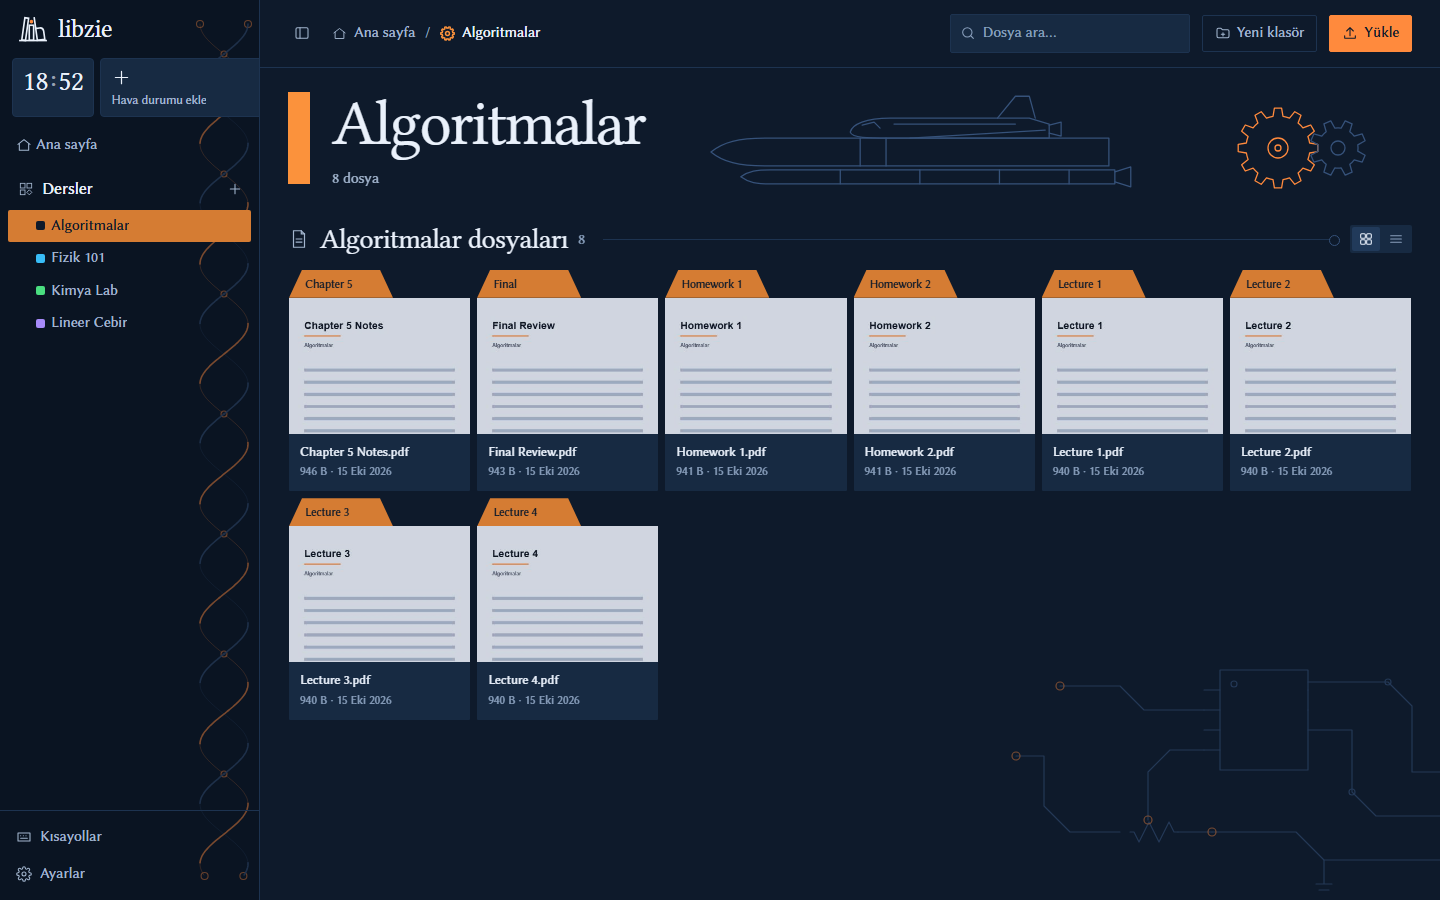
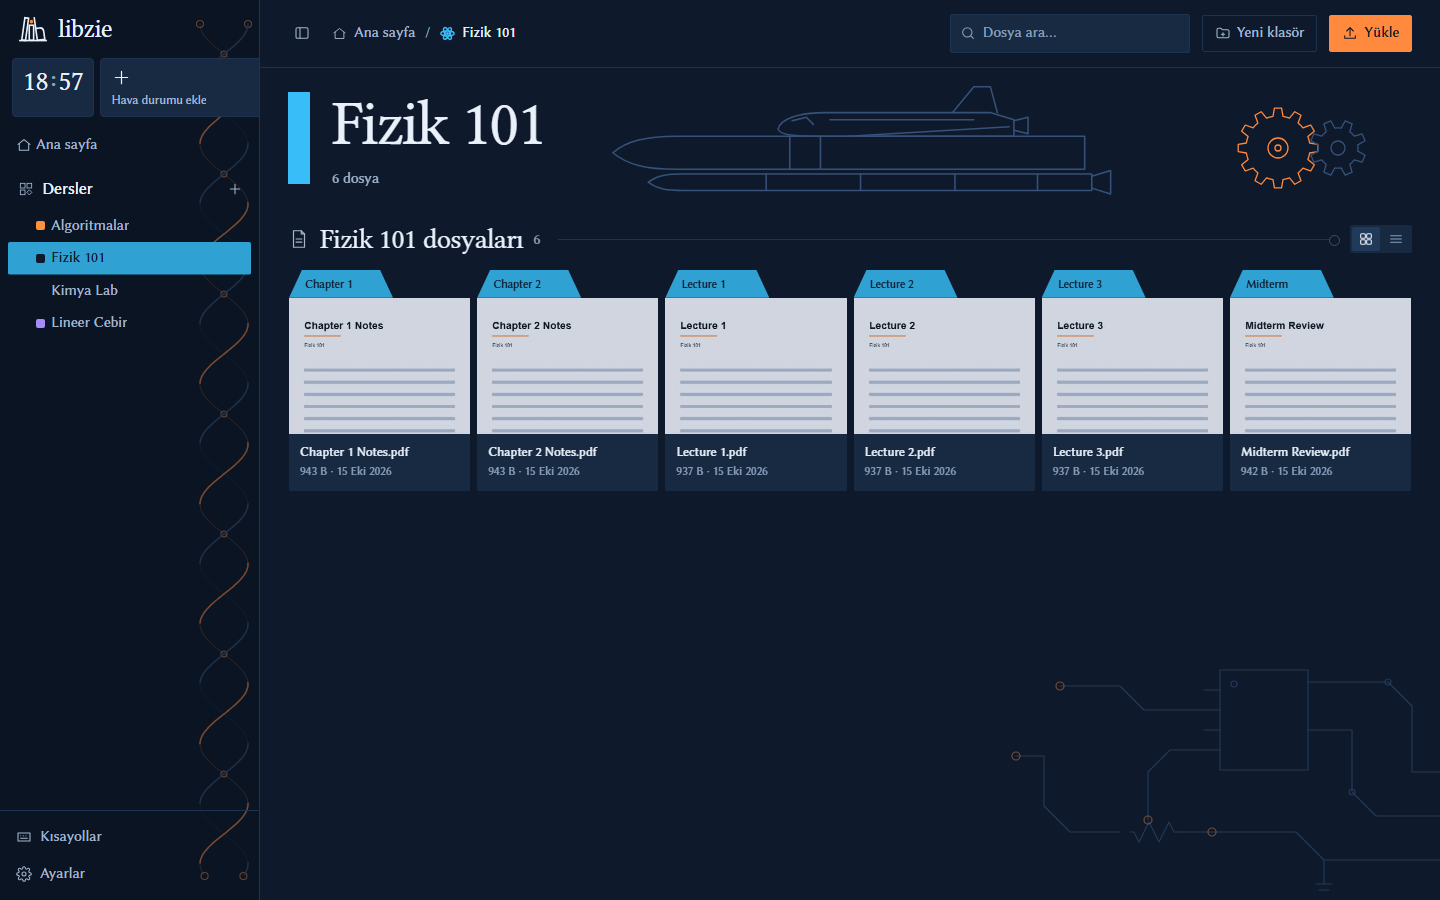
Ders ikonları: genel dersler için yeni ikon seti ve ikon seçici
- 17 genel ikon (fizik, kimya, biyoloji, matematik vb.) + mevcut 9 mühendislik sembolü
- Ders menüsünde "İkon seç…"; seçim .ikonlar.json (POST /api/icon), ad değişince/taşınınca korunur
- Yeni derse en az kullanılan ikon verilir; ekran görüntüleri yenilendi
- Çalışma ağacı LF'ye döndürüldü (autocrlf)

diff --git a/static/index.html b/static/index.html
@@ -752,6 +752,17 @@
     *, *::before, *::after { animation-duration: .01ms !important; animation-delay: 0s !important; transition-duration: .01ms !important; transition-delay: 0s !important; }
   }
 
+  /* İkon seçici (ders menüsü): 6 sütunlu ızgara, hover'da ikon hafifçe döner ve büyür (karo hareketiyle aynı dil) */
+  .iconpick { width: 272px; }
+  .ip-head { padding: 8px 6px 4px; font-size: 12px; color: var(--faint); }
+  .ip-grid { display: grid; grid-template-columns: repeat(6, 1fr); gap: 2px; }
+  .ip-btn { aspect-ratio: 1; display: grid; place-items: center; border-radius: var(--r); color: var(--muted); }
+  .ip-btn svg { width: 28px; height: 28px; fill: none; stroke: currentColor; stroke-width: 1.3; stroke-linejoin: round; stroke-linecap: round; transition: transform var(--duration-fast) var(--ease-smooth-out); }
+  .ip-btn svg * { vector-effect: non-scaling-stroke; }
+  .ip-btn:hover, .ip-btn:focus-visible { background: var(--hover); color: var(--text); }
+  .ip-btn:hover svg, .ip-btn:focus-visible svg { transform: rotate(-6deg) scale(1.1); }
+  .ip-btn.sel { color: var(--accent); box-shadow: inset 0 0 0 1px var(--accent); }
+
   /* Menü, iletişim kutusu, bildirim */
   .menu {
     position: fixed; z-index: 40; min-width: 180px; padding: 5px; border-radius: var(--r);
@@ -1012,7 +1023,7 @@ const store = {
 const PALETTE = ['#f87171', '#fb923c', '#facc15', '#4ade80', '#2dd4bf', '#38bdf8', '#a78bfa', '#f472b6'];
 // Eski (pastel) palet: .renkler.json'da kayıtlı eski seçimler aynı sıradaki canlı renge çevrilir
 const LEGACY_PALETTE = ['#d39a9a', '#d6b38a', '#d3c88f', '#95c2a2', '#8fc0c4', '#8ea7c6', '#b8a3cf', '#cf9fba'];
-let tree = { name: '', path: '', folders: [], files: [], colors: {} };
+let tree = { name: '', path: '', folders: [], files: [], colors: {}, icons: {} };
 // Alt klasörler ve dosyalar, bağlı oldukları dersin rengini taşır
 const colorOf = path => {
   const c = (tree.colors || {})[path.split('/')[0]] || '';
@@ -1027,7 +1038,7 @@ const courseBadge = (path, withShape = false) => {
   const course = path.split('/')[0];
   const i = tree.folders.findIndex(f => f.name === course);
   const shape = withShape && i >= 0
-    ? `<svg class="cb-shape" viewBox="0 0 100 100" aria-hidden="true">${SHAPES[i % SHAPES.length]}</svg>` : '';
+    ? `<svg class="cb-shape" viewBox="0 0 100 100" aria-hidden="true">${shapeOf(course, i)}</svg>` : '';
   return `<span class="cbadge" style="--c:${colorOf(path) || '#767c86'}" title="${esc(course)}"><span class="cb-name">${esc(course)}</span>${shape}</span>`;
 };
 // Dosyalar doğal sırayla dizilir: "Ders 2", "Ders 10"dan önce gelir
@@ -1234,7 +1245,7 @@ function crumbIcon(name, path, depth) {
   if (depth > 0) return `<svg viewBox="0 0 24 24" aria-hidden="true">${SEC_ICON.folders}</svg>`;
   const i = tree.folders.findIndex(f => f.name === name);
   if (i < 0) return '';
-  return `<svg class="crumb-shape" viewBox="0 0 100 100" style="--c:${colorOf(path) || 'currentColor'}" aria-hidden="true">${SHAPES[i % SHAPES.length]}</svg>`;
+  return `<svg class="crumb-shape" viewBox="0 0 100 100" style="--c:${colorOf(path) || 'currentColor'}" aria-hidden="true">${shapeOf(name, i)}</svg>`;
 }
 
 function renderCrumbs() {
@@ -1354,18 +1365,71 @@ function gearD(cx, cy, ro, ri, n, off = 0) {
   }
   return d + 'Z';
 }
-// Dersler alfabetik sırayla şekilleri sırayla alır; şekiller mühendislik sembolleridir (9 derse kadar hepsi farklı)
-const SHAPES = [
-  `<path d="${gearD(50, 50, 45, 36, 10)}"/><circle cx="50" cy="50" r="13"/>`,                                                    // dişli
-  '<rect x="24" y="22" width="52" height="56"/><path d="M12 32h12M12 44h12M12 56h12M12 68h12M76 32h12M76 44h12M76 56h12M76 68h12M44 22a6 6 0 0 0 12 0"/>', // entegre
-  '<path d="M4 50h18l6-18 12 36 12-36 12 36 6-18h26"/>',                                        // direnç
-  '<path d="M4 50h38M42 24v52M58 24v52M58 50h38"/>',                                            // kondansatör
-  '<path d="M4 60h12a10 10 0 0 1 20 0 10 10 0 0 1 20 0 10 10 0 0 1 20 0h20"/>',                 // bobin
-  '<circle cx="54" cy="50" r="34"/><path d="M4 50h30M34 30v40M34 42l26-20v-14M34 58l26 20v14"/>', // transistör
-  '<path d="M4 50h26M30 28v44l34-22zM64 28v44M64 50h32"/>',                                     // diyot
-  '<path d="M24 14v72l60-36zM4 36h20M4 64h20M84 50h12M32 36h10M37 31v10M32 64h10"/>',           // op-amp
-  '<path d="M4 50h92M4 22v56M4 50c12-46 24-46 36 0s24 46 36 0"/>',                              // sinüs dalgası
+// Ders ikonları (100x100, yalnızca çizgi). Seçilmemiş derslerde alfabetik sıraya göre dizinin başından verilir
+// (ilk 8 ders hep farklı bir ikon alır); yeni ders açılırken en az kullanılan ikon kalıcı olarak atanır.
+// Kullanıcı ders menüsünden "İkon seç…" ile değiştirir (sunucuda .ikonlar.json). "Genel" grubu her bölüm için,
+// "Mühendislik" grubu devre/makine dersleri içindir.
+const ICONS = [
+  { id: 'atom', label: 'Atom (fizik)', group: 'Genel',
+    svg: '<circle cx="50" cy="50" r="5"/><ellipse cx="50" cy="50" rx="44" ry="16"/><ellipse cx="50" cy="50" rx="44" ry="16" transform="rotate(60 50 50)"/><ellipse cx="50" cy="50" rx="44" ry="16" transform="rotate(120 50 50)"/>' },
+  { id: 'flask', label: 'Deney şişesi (kimya)', group: 'Genel',
+    svg: '<path d="M36 10h28M42 10v28L16 80a7 7 0 0 0 6 10h56a7 7 0 0 0 6-10L58 38V10M27 64h46"/><circle cx="46" cy="76" r="3"/><circle cx="58" cy="71" r="2"/>' },
+  { id: 'dna', label: 'DNA (biyoloji)', group: 'Genel',
+    svg: '<path d="M30 6c0 20 40 24 40 44s-40 24-40 44M70 6c0 20-40 24-40 44s40 24 40 44M36 18h28M30 50h40M36 82h28"/>' },
+  { id: 'sigma', label: 'Toplam (matematik)', group: 'Genel',
+    svg: '<path d="M72 16H30l26 34-26 34h42"/>' },
+  { id: 'book', label: 'Açık kitap (edebiyat, tarih)', group: 'Genel',
+    svg: '<path d="M50 24C40 16 24 14 8 16v60c16-2 32 0 42 8 10-8 26-10 42-8V16C76 14 60 16 50 24ZM50 24v60"/>' },
+  { id: 'globe', label: 'Dünya (coğrafya, diller)', group: 'Genel',
+    svg: '<circle cx="50" cy="50" r="40"/><ellipse cx="50" cy="50" rx="16" ry="40"/><path d="M10 50h80M16 30h68M16 70h68"/>' },
+  { id: 'code', label: 'Kod (bilgisayar)', group: 'Genel',
+    svg: '<path d="M32 28 10 50l22 22M68 28l22 22-22 22M57 20 43 80"/>' },
+  { id: 'bulb', label: 'Ampul (fikir, proje)', group: 'Genel',
+    svg: '<path d="M50 8a28 28 0 0 0-16 51c3 3 4 6 4 10v4h24v-4c0-4 1-7 4-10A28 28 0 0 0 50 8ZM38 80h24M42 90h16"/>' },
+  { id: 'graph', label: 'Fonksiyon grafiği (analiz)', group: 'Genel',
+    svg: '<path d="M10 90V10M10 90h82M10 70C30 70 30 20 52 20s22 50 40 50"/>' },
+  { id: 'bars', label: 'Sütun grafiği (istatistik, ekonomi)', group: 'Genel',
+    svg: '<path d="M10 90h80M20 90V56h14v34M43 90V30h14v60M66 90V44h14v46"/>' },
+  { id: 'temple', label: 'Anıt (hukuk, tarih, siyaset)', group: 'Genel',
+    svg: '<path d="M8 36 50 12l42 24zM18 44v32M38 44v32M62 44v32M82 44v32M10 82h80M6 90h88"/>' },
+  { id: 'heart', label: 'Kalp (sağlık, tıp)', group: 'Genel',
+    svg: '<path d="M50 86C20 62 10 46 10 32a20 20 0 0 1 40-6 20 20 0 0 1 40 6c0 14-10 30-40 54ZM20 50h16l6-12 10 24 6-12h22"/>' },
+  { id: 'palette', label: 'Palet (sanat, tasarım)', group: 'Genel',
+    svg: '<path d="M50 10C26 10 8 28 8 50s18 40 38 40c8 0 10-6 6-12-4-6 0-12 8-12h16c10 0 20-8 20-20C96 24 76 10 50 10Z"/><circle cx="28" cy="46" r="4"/><circle cx="40" cy="28" r="4"/><circle cx="62" cy="28" r="4"/><circle cx="76" cy="44" r="4"/>' },
+  { id: 'note', label: 'Nota (müzik)', group: 'Genel',
+    svg: '<path d="M36 76V20l46-10v56M36 76a12 10 0 1 1-12-10 12 10 0 0 1 12 10ZM82 66a12 10 0 1 1-12-10 12 10 0 0 1 12 10Z"/>' },
+  { id: 'triangle', label: 'Dik üçgen (geometri)', group: 'Genel',
+    svg: '<path d="M10 16v68h74ZM10 68h16v16"/>' },
+  { id: 'bubble', label: 'Konuşma balonu (iletişim, dil)', group: 'Genel',
+    svg: '<path d="M12 16h76v50H46L26 86V66H12ZM26 34h48M26 48h30"/>' },
+  { id: 'leaf', label: 'Yaprak (çevre, botanik)', group: 'Genel',
+    svg: '<path d="M16 84C16 40 40 14 86 14c0 46-24 70-62 70ZM16 84 56 44"/>' },
+  { id: 'gear', label: 'Dişli (makine)', group: 'Mühendislik',
+    svg: `<path d="${gearD(50, 50, 45, 36, 10)}"/><circle cx="50" cy="50" r="13"/>` },
+  { id: 'chip', label: 'Entegre (elektronik)', group: 'Mühendislik',
+    svg: '<rect x="24" y="22" width="52" height="56"/><path d="M12 32h12M12 44h12M12 56h12M12 68h12M76 32h12M76 44h12M76 56h12M76 68h12M44 22a6 6 0 0 0 12 0"/>' },
+  { id: 'resistor', label: 'Direnç', group: 'Mühendislik',
+    svg: '<path d="M4 50h18l6-18 12 36 12-36 12 36 6-18h26"/>' },
+  { id: 'capacitor', label: 'Kondansatör', group: 'Mühendislik',
+    svg: '<path d="M4 50h38M42 24v52M58 24v52M58 50h38"/>' },
+  { id: 'inductor', label: 'Bobin', group: 'Mühendislik',
+    svg: '<path d="M4 60h12a10 10 0 0 1 20 0 10 10 0 0 1 20 0 10 10 0 0 1 20 0h20"/>' },
+  { id: 'transistor', label: 'Transistör', group: 'Mühendislik',
+    svg: '<circle cx="54" cy="50" r="34"/><path d="M4 50h30M34 30v40M34 42l26-20v-14M34 58l26 20v14"/>' },
+  { id: 'diode', label: 'Diyot', group: 'Mühendislik',
+    svg: '<path d="M4 50h26M30 28v44l34-22zM64 28v44M64 50h32"/>' },
+  { id: 'opamp', label: 'İşlemsel yükselteç', group: 'Mühendislik',
+    svg: '<path d="M24 14v72l60-36zM4 36h20M4 64h20M84 50h12M32 36h10M37 31v10M32 64h10"/>' },
+  { id: 'sine', label: 'Sinüs dalgası (sinyaller)', group: 'Mühendislik',
+    svg: '<path d="M4 50h92M4 22v56M4 50c12-46 24-46 36 0s24 46 36 0"/>' },
 ];
+const ICON_BY_ID = Object.fromEntries(ICONS.map(i => [i.id, i]));
+// Dersin ikon kimliği: seçilmişse o, değilse alfabetik sıradaki dizin
+const iconIdOf = (name, index = 0) => {
+  const id = (tree.icons || {})[name];
+  return ICON_BY_ID[id] ? id : ICONS[index % ICONS.length].id;
+};
+const shapeOf = (name, index = 0) => ICON_BY_ID[iconIdOf(name, index)].svg;
 
 // Uzay mekiği (süs): yörünge aracı, dış yakıt tankı ve yan roket, yandan ve ana hatlarıyla; burnu solda.
 // Alevler yalnızca mekiğin üzerine gelince çıkar (--thrust 0..1, fireRocket ayarlar); dişlilerin dönüşünden bağımsızdır.
@@ -1456,7 +1520,7 @@ function bookTile(f, index) {
   const height = Math.max(190, Math.min(300, 150 + n * 6));
   const book = h(`<div class="book${arriveClass(f.path)}" draggable="true" data-path="${esc(f.path)}" tabindex="0" role="button" aria-label="${esc(f.name)}, ${n} dosya" title="${esc(f.name)}" style="height:${height}px;--c:${raw};--sink:${sink};--tile:${bg};--ink:${ink}">
     <div class="spine"><span>${esc(f.name)}</span></div>
-    <div class="cover"><div class="bcount">${n} dosya</div><svg class="shape" viewBox="0 0 100 100" aria-hidden="true">${SHAPES[index % SHAPES.length]}</svg></div>
+    <div class="cover"><div class="bcount">${n} dosya</div><svg class="shape" viewBox="0 0 100 100" aria-hidden="true">${shapeOf(f.name, index)}</svg></div>
     <button class="icon-btn more" aria-label="Seçenekler" title="Seçenekler">${ICON.more}</button></div>`);
   book.onclick = e => { if (!e.target.closest('.more')) go(f.path); };
   book.querySelector('.more').onclick = e => { e.stopPropagation(); folderMenu(f.path, e.currentTarget); };
@@ -1503,7 +1567,7 @@ function courseTile(f, index) {
     : 'Henüz boş.<br>Dosyaları bu karonun üstüne sürükleyin.';
   const tile = h(`<div class="tile${arriveClass(f.path)}" draggable="true" data-path="${esc(f.path)}" tabindex="0" role="button" aria-label="${esc(f.name)}" style="--tile:${bg};--ink:${ink}" title="${esc(f.name)}">
     <div class="tile-name">${esc(f.name)}</div>
-    <svg class="shape" viewBox="0 0 100 100" aria-hidden="true">${SHAPES[index % SHAPES.length]}</svg>
+    <svg class="shape" viewBox="0 0 100 100" aria-hidden="true">${shapeOf(f.name, index)}</svg>
     <div class="tile-desc">${desc}</div>
     <span class="tile-arrow"><svg viewBox="0 0 24 24"><path d="M4 12h16M14 6l6 6-6 6"/></svg></span>
     <button class="icon-btn more" aria-label="Seçenekler" title="Seçenekler">${ICON.more}</button></div>`);
@@ -2127,7 +2191,7 @@ function onRightClick(el, show) {
 // Klasör/ders menüsü (kenar çubuğu, kart ve sağ tık için ortak)
 function folderMenu(path, anchor, pos) {
   const items = [['Yeni alt klasör', () => newFolder(path)]];
-  if (!path.includes('/')) items.push(['Renk seç…', () => colorMenu(anchor, path, pos)]);
+  if (!path.includes('/')) items.push(['Renk seç…', () => colorMenu(anchor, path, pos)], ['İkon seç…', () => iconMenu(anchor, path, pos)]);
   items.push(
     ['Yeniden adlandır', () => rename(path, true)],
     ['Klasörde göster', () => api('/api/reveal', { path }).catch(fail)],
@@ -2150,6 +2214,32 @@ function colorMenu(anchor, path, pos) {
   clear.onclick = () => { closeMenu(); setColor(path, ''); };
   el.append(clear);
   placeMenu(el, anchor, pos);
+}
+// İkon seçici: gruplara ayrılmış ızgara; seçilen ikon dersin ana sayfa karosunda, konum yolunda ve etiketlerde görünür
+function iconMenu(anchor, path, pos) {
+  closeMenu();
+  const current = iconIdOf(path, tree.folders.findIndex(f => f.name === path));
+  const el = h('<div class="menu iconpick" role="group" aria-label="İkon seç"></div>');
+  for (const group of ['Genel', 'Mühendislik']) {
+    el.append(h(`<div class="ip-head">${group}</div>`));
+    const grid = h('<div class="ip-grid"></div>');
+    for (const ic of ICONS.filter(i => i.group === group)) {
+      const b = h(`<button class="ip-btn${ic.id === current ? ' sel' : ''}" title="${esc(ic.label)}" aria-label="${esc(ic.label)}"><svg viewBox="0 0 100 100" aria-hidden="true">${ic.svg}</svg></button>`);
+      b.onclick = () => { closeMenu(); setIcon(path, ic.id); };
+      grid.append(b);
+    }
+    el.append(grid);
+  }
+  const clear = h('<button class="clear">Varsayılana dön</button>');
+  clear.onclick = () => { closeMenu(); setIcon(path, ''); };
+  el.append(clear);
+  placeMenu(el, anchor, pos);
+}
+async function setIcon(path, icon) {
+  try {
+    await api('/api/icon', { path, icon });
+    await load();
+  } catch (e) { fail(e); }
 }
 async function setColor(path, color) {
   try {
@@ -2204,6 +2294,11 @@ async function newFolder(dir) {
       const used = Object.values(tree.colors || {});
       const color = PALETTE.map(c => [c, used.filter(u => u === c).length]).sort((a, b) => a[1] - b[1])[0][0];
       await api('/api/color', { path, color });
+      // Ve en az kullanılan ikonu (alfabetik sıra kayınca ikon değişmesin diye kalıcı olarak)
+      const usage = new Map(ICONS.map(i => [i.id, 0]));
+      tree.folders.forEach((f, k) => { const id = iconIdOf(f.name, k); usage.set(id, usage.get(id) + 1); });
+      const icon = ICONS.map(i => i.id).sort((x, y) => usage.get(x) - usage.get(y))[0];
+      await api('/api/icon', { path, icon });
     }
     await load();
     go(path);

diff --git a/server.py b/server.py
@@ -6,6 +6,7 @@ klasör yapısı doğrudan diskteki klasör yapısıdır (Gezgin'den de eklenebi
 import json
 import mimetypes
 import os
+import re
 import shutil
 import subprocess
 import sys
@@ -75,13 +76,13 @@ def pick_root():
     return DEFAULT_ROOT.resolve(), warning
 
 
-ROOT = TRASH = COLOR_FILE = None
+ROOT = TRASH = COLOR_FILE = ICON_FILE = None
 ROOT_WARNING = ""
 
 
 def set_root(root, warning=""):
-    global ROOT, TRASH, COLOR_FILE, ROOT_WARNING
-    ROOT, TRASH, COLOR_FILE = root, root / ".silinenler", root / ".renkler.json"
+    global ROOT, TRASH, COLOR_FILE, ICON_FILE, ROOT_WARNING
+    ROOT, TRASH, COLOR_FILE, ICON_FILE = root, root / ".silinenler", root / ".renkler.json", root / ".ikonlar.json"
     ROOT_WARNING = warning
 
 
@@ -128,6 +129,30 @@ def load_colors():
 
 def save_colors(colors):
     COLOR_FILE.write_text(json.dumps(colors, ensure_ascii=False, indent=1), encoding="utf-8")
+
+
+def load_icons():
+    """Derslerin seçili ikonları ({ders adı: ikon kimliği}); seçilmemişse arayüz sıraya göre varsayılanı verir."""
+    try:
+        data = json.loads(ICON_FILE.read_text(encoding="utf-8"))
+        return data if isinstance(data, dict) else {}
+    except (OSError, ValueError):
+        return {}
+
+
+def save_icons(icons):
+    ICON_FILE.write_text(json.dumps(icons, ensure_ascii=False, indent=1), encoding="utf-8")
+
+
+def move_course_meta(old, new):
+    """Dersin rengi ve ikonu, ders yeniden adlandırılınca/taşınınca/silinince kayıt dosyalarında da güncellenir (new=None: sil)."""
+    for load, save in ((load_colors, save_colors), (load_icons, save_icons)):
+        data = load()
+        value = data.pop(old, None)
+        if value is not None:
+            if new is not None:
+                data[new] = value
+            save(data)
 
 
 def tree(d):
@@ -247,6 +272,7 @@ class Handler(BaseHTTPRequestHandler):
             if path == "/api/tree":
                 data = tree(ROOT)
                 data["colors"] = load_colors()
+                data["icons"] = load_icons()
                 data["warning"] = ROOT_WARNING
                 return self.send_json(data)
             if path == "/api/settings":
@@ -329,12 +355,7 @@ class Handler(BaseHTTPRequestHandler):
                 dst_dir.mkdir(parents=True, exist_ok=True)
                 os.rename(src, dst)
                 if src.parent == ROOT:
-                    colors = load_colors()
-                    color = colors.pop(src.name, None)
-                    if color is not None:
-                        if dst.parent == ROOT:
-                            colors[dst.name] = color
-                        save_colors(colors)
+                    move_course_meta(src.name, dst.name if dst.parent == ROOT else None)
                 return self.send_json({"path": rel(dst)})
 
             if u.path == "/api/settings":
@@ -369,14 +390,27 @@ class Handler(BaseHTTPRequestHandler):
                 save_colors(colors)
                 return self.send_json({"ok": True})
 
+            if u.path == "/api/icon":
+                course = safe(body["path"])
+                if course.parent != ROOT or not course.is_dir():
+                    raise ValueError("İkon yalnızca derslere verilebilir")
+                icon = str(body.get("icon") or "")
+                if icon and not re.fullmatch(r"[a-z0-9-]{1,24}", icon):
+                    raise ValueError("Geçersiz ikon")
+                icons = load_icons()
+                if icon:
+                    icons[course.name] = icon
+                else:
+                    icons.pop(course.name, None)
+                save_icons(icons)
+                return self.send_json({"ok": True})
+
             if u.path == "/api/delete":
                 src = safe(body["path"])
                 if src == ROOT or not src.exists():
                     raise ValueError("Öğe bulunamadı")
                 if src.parent == ROOT:
-                    colors = load_colors()
-                    if colors.pop(src.name, None) is not None:
-                        save_colors(colors)
+                    move_course_meta(src.name, None)
                 TRASH.mkdir(exist_ok=True)
                 trashed = unique(TRASH / src.name)
                 shutil.move(str(src), str(trashed))

diff --git a/CLAUDE.md b/CLAUDE.md
@@ -56,3 +56,8 @@ The content folder defaults to `./kaynaklar`. It can be changed from the in-app 
 - `app.py` pywebview ile (Windows'ta Edge WebView2) `server.start()` sunucusunu bir pencerede açar; `python server.py` geliştirme için hâlâ yeterli. `server.start()` önce 8765'ten başlayan 11 portta `/api/ping` ile çalışan bir libzie arar (varsa ona bağlanır, sunucu açmaz), yoksa ilk boş portu bağlar; `PORT` verilirse yalnızca o port denenir.
 - Paketlenmiş uygulamada (`sys.frozen`) `STATIC` `sys._MEIPASS` altındadır; dersler varsayılan olarak `Belgeler\libzie\kaynaklar`, ayarlar `%APPDATA%\libzie\ayarlar.json` içindedir (kaynak koddan çalışırken eskisi gibi proje klasörü). `documents_dir()` OneDrive'a yönlendirilmiş Belgeler'i de bulur.
 - Derleme GitHub Actions'ta (`.github/workflows/windows.yml`, `windows-latest`, CPython 3.12): `pyinstaller --windowed --onedir --add-data "static;static" app.py` → `libzie-windows.zip` (artifact; `v*` etiketinde Release'e de eklenir). Geliştirme makinesinde python.org CPython'u yok (MSYS2 Python), bu yüzden yerelde derlenmedi.
+
+## Ders ikonları (2026-10)
+
+- Her dersin ikonu bir kimlik (`ICONS` dizisi, `static/index.html`): "Genel" grubu (atom, deney şişesi, DNA, sigma, kitap, dünya, kod, ampul, grafik, sütun grafiği, anıt, kalp, palet, nota, dik üçgen, konuşma balonu, yaprak) ve "Mühendislik" grubu (dişli, entegre, direnç, kondansatör, bobin, transistör, diyot, op-amp, sinüs). 100x100, yalnızca çizgi; karo/kitap/konum yolu/etiket aynı `shapeOf(ad, dizin)` ile çizer, böylece hover hareketleri (`.tile:hover svg.shape`, `.book:hover`) tüm ikonlarda aynıdır.
+- Seçim sunucuda ders klasöründeki gizli `.ikonlar.json` içindedir ({ders adı: kimlik}); `POST /api/icon {path, icon}` (boş = varsayılan; kimlik `[a-z0-9-]{1,24}`), `/api/tree` yanıtında `icons`. Yeniden adlandırma/taşıma/silmede renk ile birlikte `move_course_meta()` günceller. Seçilmemiş derste ikon alfabetik sıradaki dizinden gelir (`iconIdOf`); yeni ders açılırken en az kullanılan ikon kalıcı olarak atanır. Ders menüsünde "İkon seç…" (`iconMenu()`, `.iconpick` ızgarası).

diff --git a/README.md b/README.md
@@ -13,6 +13,7 @@ Ders notlarını, slaytları ve PDF'leri derse göre düzenleyen, bilgisayarınd
 ## Özellikler
 
 - Klasörler = dersler: Gezgin'e eklediğin dosya kendiliğinden görünür, içe aktarma yok.
+- Her derse renk ve ikon seçebilirsin (fizik, kimya, biyoloji, matematik, edebiyat, müzik… ve elektronik/makine sembolleri): ders menüsünde **Renk seç…** ve **İkon seç…**.
 - Sürükle-bırakla yükleme (klasör dahil), taşıma, yeniden adlandırma, "Geri al" ile yumuşak silme.
 - PDF'ler sayfa içinde sekmelerde açılır; PDF'lerin ilk sayfası küçük resim olur.
 - Türkçe karakterden bağımsız arama (`isletim` → "İşletim"), `Ctrl+K` ile tüm derslerde hızlı arama.
